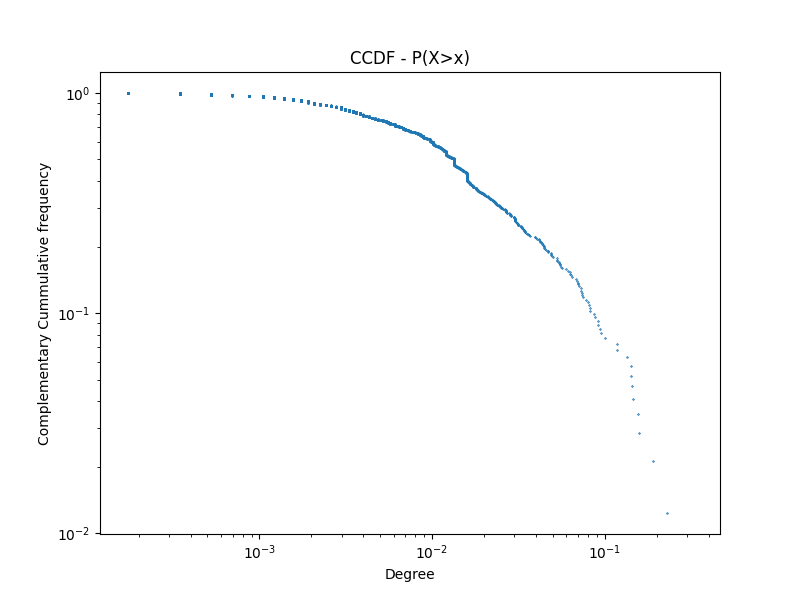
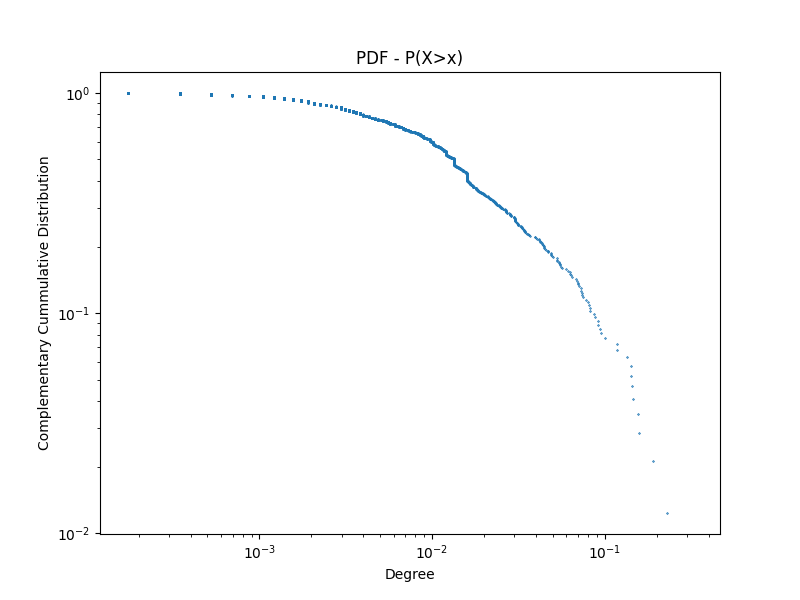
No sale bien la PDF

Changed region(s): [[0.0312, 0.27, 0.0625, 0.75], [0.4375, 0.06, 0.5938, 0.12]]

diff --git a/utils_graph_plot.py b/utils_graph_plot.py
@@ -40,7 +40,7 @@ def get_all_markers():
 
 # Función genérica para crear una gráfica de barras dado unos ejes X e Y, los nombres de los ejes,
 # la ruta de los archivos.
-def plot_bar(x_axis, y_axis, name_x, name_y, name_plot, path, bin_log=True, alpha=0.7, figsize=(8,6)):
+def plot_bar(x_axis, y_axis, name_x, name_y, name_plot, path, scale_log=True, alpha=0.7, figsize=(8,6)):
     
     plt.figure(figsize=figsize) 
 
@@ -49,7 +49,7 @@ def plot_bar(x_axis, y_axis, name_x, name_y, name_plot, path, bin_log=True, alph
     plt.ylabel(name_y)
     plt.title(name_plot)
 
-    if bin_log:
+    if scale_log:
         plt.xscale('log')  
         plt.yscale('log')  
 
@@ -58,11 +58,11 @@ def plot_bar(x_axis, y_axis, name_x, name_y, name_plot, path, bin_log=True, alph
 
 # Funcion genérica que, dado una serie de puntos, crea un histograma de los mismos haciendo una
 # distribución en num_bins (100 por defecto)
-def plot_histogram(points, name_x, name_y, name_plot, path, bin_log=True, num_bins=100, min_bins=0.001, max_bins=1, figsize=(8,6)):
+def plot_histogram(points, name_x, name_y, name_plot, path, scale_log=True, num_bins=100, min_bins=0.001, max_bins=1, figsize=(8,6)):
     
     plt.figure(figsize=figsize) 
 
-    if bin_log:
+    if scale_log:
         plt.xscale('log')  
         plt.yscale('log')         
         plt.hist(points, bins=np.logspace(np.log10(min_bins), np.log10(max_bins), num_bins))
@@ -78,11 +78,11 @@ def plot_histogram(points, name_x, name_y, name_plot, path, bin_log=True, num_bi
 
 # Función genérica para crear una gráfica de puntos dado unos arrays de ejes X e Y, los nombres de los ejes,
 # la ruta de los archivos.
-def plot_scatter(points_x, points_y, name_x, name_y, name_plot, path, bin_log=True, marker="x", dot_size=1, alpha=0.7, figsize=(8,6)):
+def plot_scatter(points_x, points_y, name_x, name_y, name_plot, path, scale_log=True, marker="x", dot_size=1, alpha=0.7, figsize=(8,6)):
     
     plt.figure(figsize=figsize) 
     
-    if bin_log:
+    if scale_log:
         plt.xscale('log')  
         plt.yscale('log')      
 
@@ -104,7 +104,7 @@ def plot_clust_by_tres_fig2e(dict_tres, MANIFESTACION, hora, plots_folder):
     name_plot = str(hora) + " (" + MANIFESTACION + ") - Fig. 2e"
     path = plots_folder + hora + "_Fig_2e.png"
     figsize = (14,7)
-    plot_scatter(claves, valores, name_x="K_T", name_y="average c(K_T)", name_plot=name_plot, path=path, figsize=figsize, bin_log=True)
+    plot_scatter(claves, valores, name_x="K_T", name_y="average c(K_T)", name_plot=name_plot, path=path, figsize=figsize, scale_log=True)
 
 
 # Dado un array con diccionarios con internal degrees como clave y la media de coeficiente de clusterización
@@ -136,38 +136,39 @@ def plot_avg_clust_by_norm_int_deg_fig2a(arr_norm_int_deg_fig2a, MANIFESTACION, 
     plt.show()
 
 
-# Dado una arra con una serie de valores correspondiente al grado de los nodos normalizado
+# Dado una array con una serie de valores correspondiente al grado de los nodos normalizado
 # por el número total de nodos, imprime el histograma (frecuencia) de estos valores
-def plot_degree_distribution(arr_norm_degrees, name_graph, plots_folder):
+def plot_degree_distribution(arr_norm_degrees, name_graph, plots_folder, name_x="Degree", name_y="Frequency", name_plot="Degree of nodes", scale_log=True, num_bins=100, min_bins=0.001, max_bins=1):
     
-    plot_histogram(arr_norm_degrees, name_x="Degree", name_y="Frequency", name_plot="Degree of nodes", path=plots_folder + name_graph + ".png", bin_log=True)
+    plot_histogram(arr_norm_degrees, name_x=name_x, name_y=name_y, name_plot=name_plot, path=plots_folder + name_graph + ".png", scale_log=scale_log,num_bins=num_bins, min_bins=min_bins, max_bins=max_bins)
 
-# TODO hacer PDF sin histogramas
+# Dado una array con una serie de valores correspondiente al grado de los nodos normalizado
+# por el número total de nodos, imprime la funcion de distribucion de probabilidad de estos valores
 # TODO YERALI no entiendo como quiere que haga esto, pues las probs de cada elemento en el eje X son muy pocas
-def plot_degree_probability_distribution(points, number_of_nodes, name_graph, plots_folder):
+def plot_degree_probability_distribution(points, number_of_nodes, name_graph, plots_folder, name_x="Degree", name_y="Probability Distribution", name_plot="PDF - P(X=x)", scale_log=True):
     degrees, counts = np.unique(points, return_counts=True)
     probs = counts / number_of_nodes
 
-    plot_scatter(degrees, probs, name_x="Degree", name_y="Probability Distribution", name_plot="PDF",path=plots_folder + name_graph + "_cdf.png", bin_log=True)
+    plot_scatter(degrees, probs, name_x=name_x, name_y=name_y, name_plot=name_plot, path=plots_folder + name_graph + "_cdf.png", scale_log=scale_log)
 
 
 
 # Dado un array con una serie de valores correspondiente al grado de los nodos normalizado
 # por el número total de nodos, imprime el scatter con la distribucion cumulativa de estos
-def plot_degree_cummulative_distribution(arr_norm_degrees, name_graph, plots_folder):
+def plot_degree_cummulative_distribution(arr_norm_degrees, name_graph, plots_folder, name_x="Degree", name_y="Cummulative Distribution", name_plot="PDF - P(X<x)", scale_log=True):
     
     cum_freq = np.cumsum(arr_norm_degrees)
     cdf = cum_freq/cum_freq[-1]
 
-    plot_scatter(arr_norm_degrees, cdf, name_x="Degree", name_y="Cummulative frequency", name_plot="CDF - P(X<x)", path=plots_folder + name_graph + "_cdf.png", bin_log=True)
+    plot_scatter(arr_norm_degrees, cdf, name_x=name_x, name_y=name_y, name_plot=name_plot, path=plots_folder + name_graph + "_cdf.png", scale_log=scale_log)
 
 # Dado un array con una serie de valores correspondiente al grado de los nodos normalizado
 # por el número total de nodos, imprime el scatter con la distribucion complementaria cumulativa de estos
-def plot_degree_complementary_cummulative_distribution(arr_norm_degrees, name_graph, plots_folder):
+def plot_degree_complementary_cummulative_distribution(arr_norm_degrees, name_graph, plots_folder, name_x="Degree", name_y="Complementary Cummulative Distribution", name_plot="PDF - P(X>x)", scale_log=True):
 
     cum_freq = np.cumsum(arr_norm_degrees)
     cdf = cum_freq/cum_freq[-1]
     ccdf = 1 - cdf
 
-    plot_scatter(arr_norm_degrees, ccdf, name_x="Degree", name_y="Complementary Cummulative frequency", name_plot="CCDF - P(X>x)", path=plots_folder + name_graph + "_ccdf.png", bin_log=True)
+    plot_scatter(arr_norm_degrees, ccdf, name_x=name_x, name_y=name_y, name_plot=name_plot, path=plots_folder + name_graph + "_ccdf.png", scale_log=scale_log)
     
